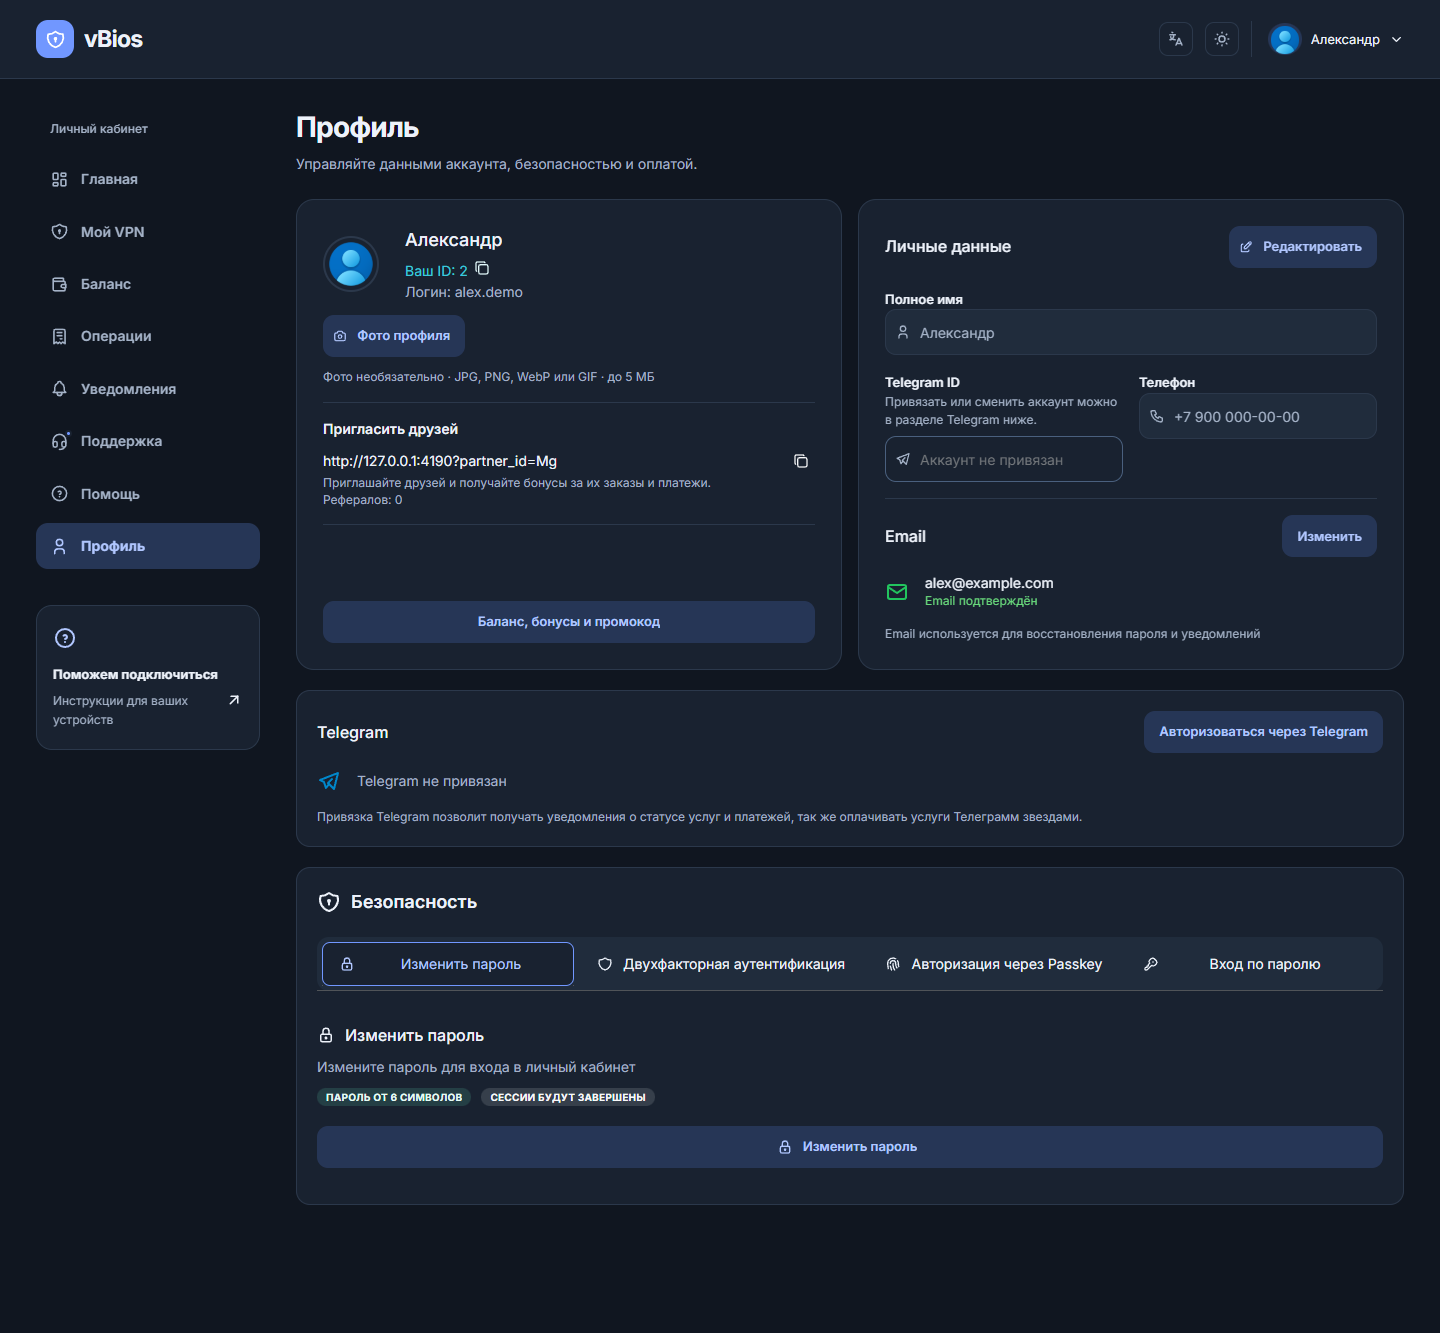
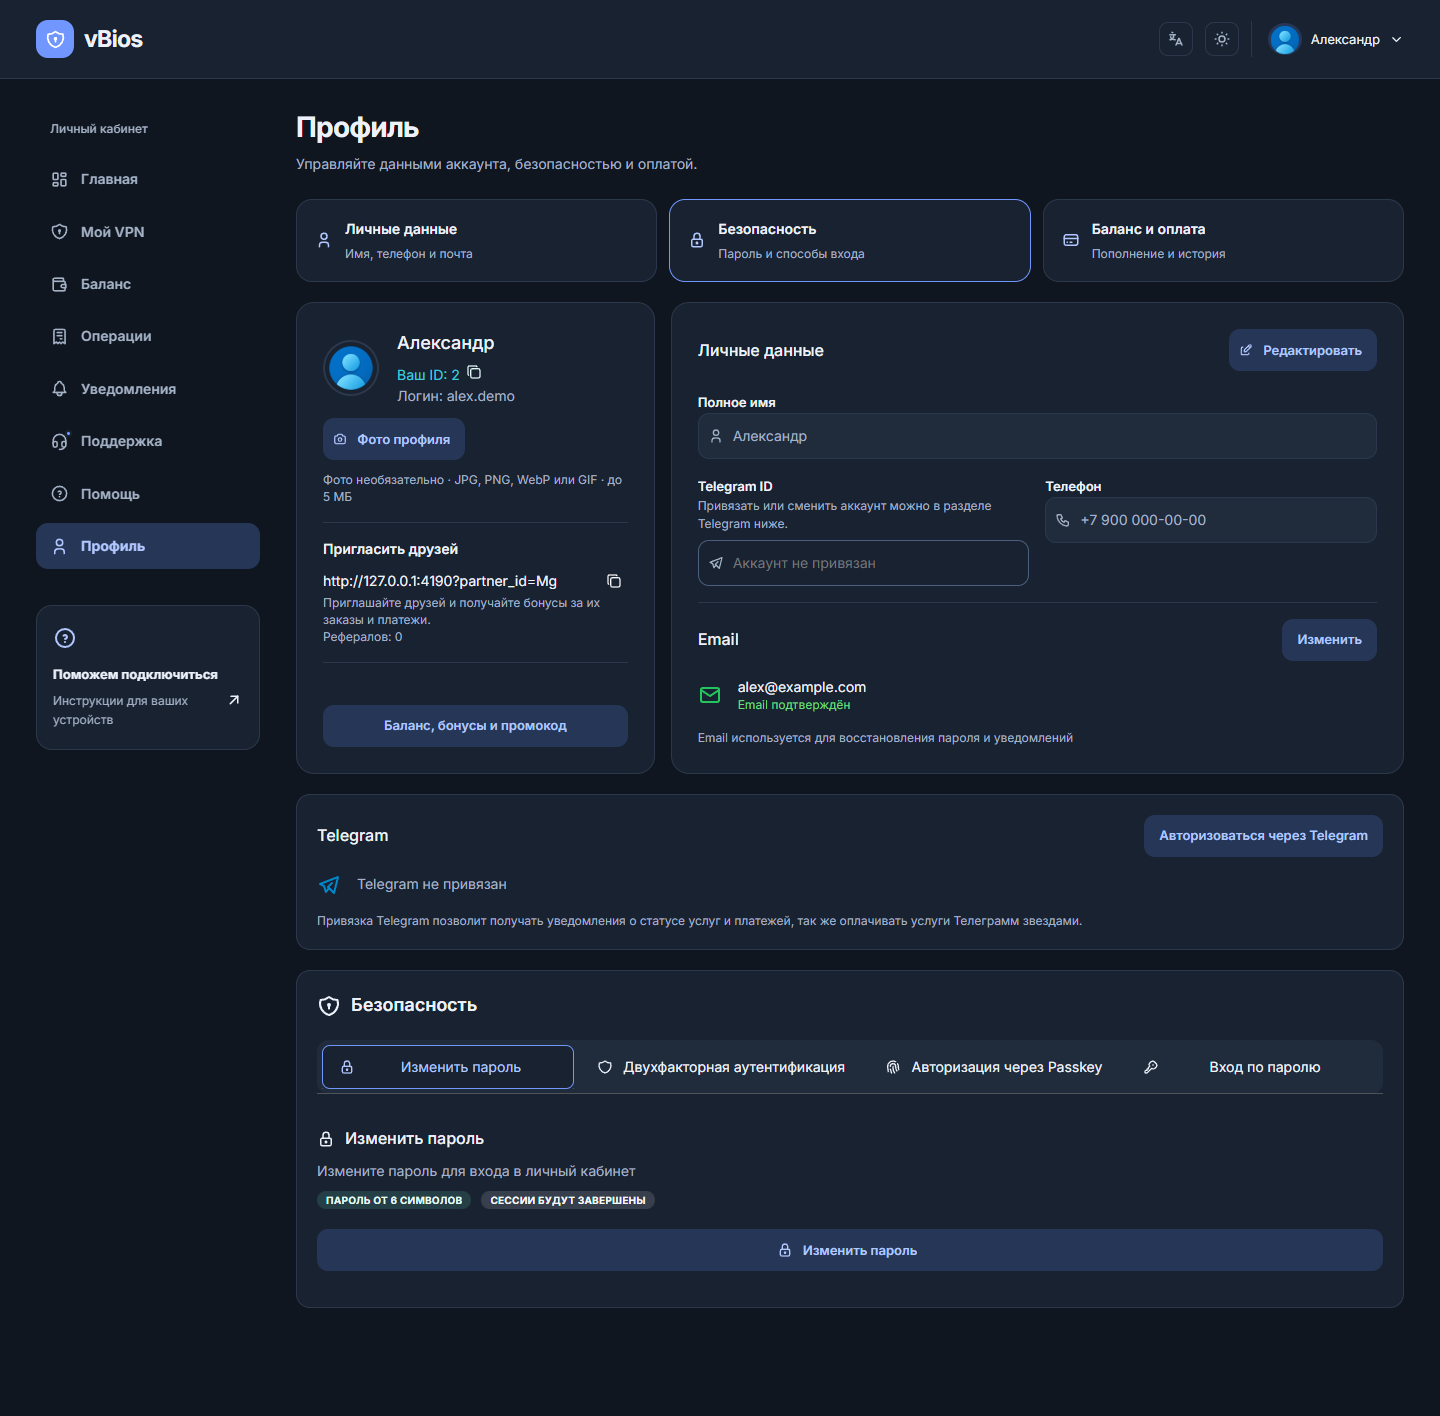
Polish subscription detail and profile navigation

diff --git a/client/src/pages/Services.tsx b/client/src/pages/Services.tsx
@@ -411,20 +411,20 @@ function ServiceDetail({ service, onDelete, onChangeTariff }: ServiceDetailProps
 
           <Stack gap="xs">
             <Paper withBorder radius="lg" p="lg" className="service-primary-card">
-              <Stack gap="md">
-                <Group justify="space-between" gap="md">
-                  <Text fw={650} size="xl">{service.service.name}</Text>
+              <Stack gap="md" className="service-detail-summary">
+                <Group justify="space-between" gap="md" className="service-detail-summary__heading">
+                  <div><Text size="xs" c="dimmed">Подписка · №{service.user_service_id}</Text><Title order={2}>{service.service.name}</Title></div>
                   <Badge color={statusColor} variant="light" size="sm" radius="sm">{statusLabel}</Badge>
                 </Group>
                 <Divider />
-                <Group justify="space-between" gap="md" align="center">
-                  <Group gap="xs" c="dimmed"><IconWallet size={18} /><Text size="sm">{t('services.cost')}</Text></Group>
+                <Group justify="space-between" gap="md" align="center" className="service-detail-summary__metric">
+                  <Group gap="xs" c="dimmed"><IconWallet size={18} /><Text size="sm">Стоимость продления</Text></Group>
                   <Text fw={700} size="xl" style={{ fontVariantNumeric: 'tabular-nums' }}>{service.service.cost} <Text component="span" size="sm" fw={500} c="dimmed">{t('common.currency')}</Text></Text>
                 </Group>
                 {service.expire && (
                   <>
                     <Divider />
-                    <Group justify="space-between" gap="md" align="center">
+                    <Group justify="space-between" gap="md" align="center" className="service-detail-summary__metric">
                       <Group gap="xs" c="dimmed"><IconCalendarTime size={18} /><Text size="sm">{t('services.validUntil')}</Text></Group>
                       <Text size="sm" fw={600} style={{ fontVariantNumeric: 'tabular-nums' }}>{new Date(service.expire as string).toLocaleDateString(i18n.language === 'ru' ? 'ru-RU' : 'en-US')}</Text>
                     </Group>
@@ -474,7 +474,7 @@ function ServiceDetail({ service, onDelete, onChangeTariff }: ServiceDetailProps
                   <Badge color="green" variant="light">{statusLabel}</Badge>
                 </Group>
 
-                <Paper withBorder p="sm" radius="sm" className="connection-diagnostics">
+                <details className="connection-check-details"><summary>Проверить данные подключения</summary><Paper withBorder p="sm" radius="sm" className="connection-diagnostics">
                   <Group justify="space-between" align="center" wrap="nowrap">
                     <Stack gap={3}>
                       <Group gap="xs"><Text size="sm" fw={600}>Диагностика подключения</Text><Badge color={isOnline ? 'green' : 'orange'} variant="light" leftSection={isOnline ? <IconWifi size={12} /> : <IconWifiOff size={12} />}>{isOnline ? 'Сеть доступна' : 'Нет сети'}</Badge></Group>
@@ -483,7 +483,7 @@ function ServiceDetail({ service, onDelete, onChangeTariff }: ServiceDetailProps
                     </Stack>
                     <Button variant="light" size="xs" leftSection={<IconRefresh size={14} />} loading={connectionStatus === 'loading'} disabled={!isOnline} onClick={() => setConnectionReload((value) => value + 1)}>Проверить</Button>
                   </Group>
-                </Paper>
+                </Paper></details>
 
                 {isProxy && showProxySubscription && subscriptionUrl && (
                   <Paper withBorder p="sm" radius="sm" bg="var(--mantine-color-default-hover)">
@@ -491,7 +491,7 @@ function ServiceDetail({ service, onDelete, onChangeTariff }: ServiceDetailProps
                     <Group wrap="nowrap">
                       <Code style={{ flex: 1, wordBreak: 'break-all', whiteSpace: 'normal' }}>{subscriptionUrl}</Code>
                       <Tooltip label={clipboard.copied ? t('common.copied') : t('common.copy')}>
-                        <ActionIcon color={clipboard.copied ? 'teal' : 'blue'} variant="light" onClick={() => clipboard.copy(subscriptionUrl)}>
+                        <ActionIcon aria-label="Скопировать ссылку подписки" color={clipboard.copied ? 'teal' : 'blue'} variant="light" onClick={() => clipboard.copy(subscriptionUrl)}>
                           {clipboard.copied ? <IconCheck size={17} /> : <IconCopy size={17} />}
                         </ActionIcon>
                       </Tooltip>

diff --git a/client/src/pages/Profile.tsx b/client/src/pages/Profile.tsx
@@ -4,7 +4,7 @@ import axios from 'axios';
 import { useAuthOptions } from '../hooks/useAuthOptions';
 import { useState, useEffect, useCallback } from 'react';
 import { Card, Text, Stack, Group, Divider, Grid, Button, TextInput, Tooltip, ActionIcon, Avatar, Title, Modal, Loader, Center, Collapse, Alert, Skeleton, useMantineColorScheme, FileButton } from '@mantine/core';
-import { IconUser, IconPhone, IconCopy, IconCheck, IconBrandTelegram, IconCreditCard, IconChevronDown, IconChevronUp, IconMail, IconAlertCircle, IconEdit, IconCamera, IconTrash } from '@tabler/icons-react';
+import { IconUser, IconPhone, IconCopy, IconCheck, IconBrandTelegram, IconCreditCard, IconChevronDown, IconChevronUp, IconMail, IconAlertCircle, IconEdit, IconCamera, IconTrash, IconLock } from '@tabler/icons-react';
 import { notifications } from '@mantine/notifications';
 import { useClipboard } from '@mantine/hooks';
 import { useTranslation } from 'react-i18next';
@@ -533,8 +533,9 @@ export default function Profile() {
       <header className="page-header"><div><span className="cabinet-breadcrumb">Личный кабинет</span><Title className="page-header__title" order={2}>{t('profile.title')}</Title><p className="page-header__description">Управляйте данными аккаунта, безопасностью и оплатой.</p></div></header>
 
 
+      <nav className="profile-shortcuts" aria-label="Настройки профиля"><a href="#profile-contacts"><IconUser size={18} /><span>Личные данные<small>Имя, телефон и почта</small></span></a><a href="#profile-security"><IconLock size={18} /><span>Безопасность<small>Пароль и способы входа</small></span></a><Link to="/balance"><IconCreditCard size={18} /><span>Баланс и оплата<small>Пополнение и история</small></span></Link></nav>
       <Grid>
-        <Grid.Col span={{ base: 12, md: 6 }} style={{ display: 'flex' }}>
+        <Grid.Col span={{ base: 12, md: 4 }} style={{ display: 'flex' }}>
           <Card className="profile-card profile-card--account" withBorder radius="lg" p="lg" style={{ flex: 1, display: 'flex', flexDirection: 'column' }}>
             <Group className="profile-identity">
               <Avatar
@@ -606,8 +607,8 @@ export default function Profile() {
 
         </Grid.Col>
 
-        <Grid.Col span={{ base: 12, md: 6 }} style={{ display: 'flex' }}>
-          <Card className="profile-card profile-card--details" withBorder radius="lg" p="lg" style={{ flex: 1, display: 'flex', flexDirection: 'column' }}>
+        <Grid.Col span={{ base: 12, md: 8 }} style={{ display: 'flex' }}>
+          <Card id="profile-contacts" className="profile-card profile-card--details" withBorder radius="lg" p="lg" style={{ flex: 1, display: 'flex', flexDirection: 'column' }}>
             <Group justify="space-between" mb="md">
               <Text fw={500}>{t('profile.personalData')}</Text>
               {!editing ? (
@@ -827,7 +828,7 @@ export default function Profile() {
         </Card>
       )}
 
-      <SecuritySettings />
+      <section id="profile-security"><SecuritySettings /></section>
 
       <PayModal opened={payModalOpen} onClose={() => setPayModalOpen(false)} initialAmount={payModalAmount} />
 

diff --git a/client/src/pages/Services.css b/client/src/pages/Services.css
@@ -90,3 +90,11 @@
 .services-overview .mantine-Accordion-control { padding:14px 0; border-radius:10px; }
 .services-overview .mantine-Accordion-content { padding:4px 0 12px; }
 @media(max-width:700px){.services-card-grid{grid-template-columns:1fr}.services-overview .services-summary>div{padding:14px 12px}.services-overview .services-summary .mantine-Text-root{overflow-wrap:anywhere}.services-overview .services-header-card__actions{flex-wrap:wrap}.services-overview .services-header-card__actions .mantine-Button-root{min-height:44px}.services-overview .services-search{max-width:none}}
+
+.service-detail-page .service-primary-card { padding:28px; border-radius:22px; background:linear-gradient(120deg,var(--ui-accent-soft),var(--ui-surface) 55%); }
+.connection-check-details { border:1px solid var(--ui-border); border-radius:12px; padding:14px; }
+.connection-check-details>summary { font-size:13px; color:var(--ui-muted); cursor:pointer; }
+.connection-check-details .connection-diagnostics { border:0; padding:16px 0 0; background:transparent; }
+.service-primary-card>.service-detail-summary{gap:24px}.service-detail-summary__heading h2{font-size:30px;letter-spacing:-.035em;margin-top:8px;overflow-wrap:anywhere}.service-detail-summary__metric{flex-direction:column;align-items:flex-start!important;padding:20px;background:var(--ui-surface);border:1px solid var(--ui-border);border-radius:16px}.service-detail-summary__metric>.mantine-Text-root{font-size:28px}.service-detail-summary>.mantine-Button-root{min-height:48px;border-radius:12px}.service-detail-summary__heading{align-items:flex-start!important}
+@media(max-width:600px){.service-detail-summary__heading h2{font-size:25px}.service-detail-summary__metric{padding:14px}.service-detail-summary__metric>.mantine-Text-root{font-size:22px}.service-detail-summary__metric>.mantine-Group-root{gap:6px}.service-detail-summary__metric .mantine-Text-root{overflow-wrap:anywhere}}
+@media(max-width:600px){.service-primary-card>.service-detail-summary{grid-template-columns:1fr;gap:14px}.service-primary-card .service-detail-summary>.service-detail-summary__metric{flex-direction:row!important;align-items:center!important;gap:12px}.service-detail-summary__metric>.mantine-Text-root{white-space:nowrap;font-size:21px}.service-detail-summary__metric>.mantine-Group-root{max-width:50%;flex-wrap:nowrap;align-items:center}.service-detail-summary__metric>.mantine-Group-root>.mantine-Text-root{font-size:12px}.service-detail-summary__metric svg{flex-shrink:0}.service-detail-page .service-primary-card{padding:20px}}

diff --git a/client/src/pages/Profile.css b/client/src/pages/Profile.css
@@ -34,3 +34,13 @@
 .profile-page .mantine-Tabs-tab { min-height:44px; border-radius:8px; }
 .profile-page .mantine-Tabs-tab[data-active] { background:var(--ui-surface); color:var(--ui-accent-strong); }
 @media(max-width:700px){.profile-page .profile-card{padding:20px!important}.profile-page .profile-card--details>.mantine-Group-root{gap:12px}.profile-page .mantine-Button-root{min-height:40px}.profile-page .mantine-Tabs-list{display:grid;grid-template-columns:repeat(2,minmax(0,1fr))}.profile-page .mantine-Tabs-tab{white-space:normal;padding:10px 6px;font-size:12px}}
+
+.profile-shortcuts { display:grid; grid-template-columns:repeat(3,minmax(0,1fr)); gap:12px; }
+.profile-shortcuts a { display:flex; align-items:center; gap:12px; padding:18px; border:1px solid var(--ui-border); border-radius:16px; text-decoration:none; color:var(--ui-text); background:var(--ui-surface); font-size:14px; font-weight:600; }
+.profile-shortcuts a>svg { color:var(--ui-accent-strong); flex-shrink:0; }
+.profile-shortcuts small { display:block; margin-top:4px; font-size:12px; font-weight:400; color:var(--ui-muted); }
+.profile-shortcuts a:hover { border-color:var(--ui-accent); }
+.profile-shortcuts a:focus-visible { outline:2px solid var(--ui-accent); outline-offset:3px; }
+#profile-contacts,#profile-security { scroll-margin-top:100px; }
+.profile-page .profile-card--account .profile-identity { grid-template-columns:56px minmax(0,1fr); gap:12px; }
+@media(max-width:700px){.profile-shortcuts{grid-template-columns:1fr;gap:8px}.profile-shortcuts a{padding:14px 16px}.profile-shortcuts small{margin-top:2px}.profile-shortcuts a span{display:flex;flex-direction:column}}
